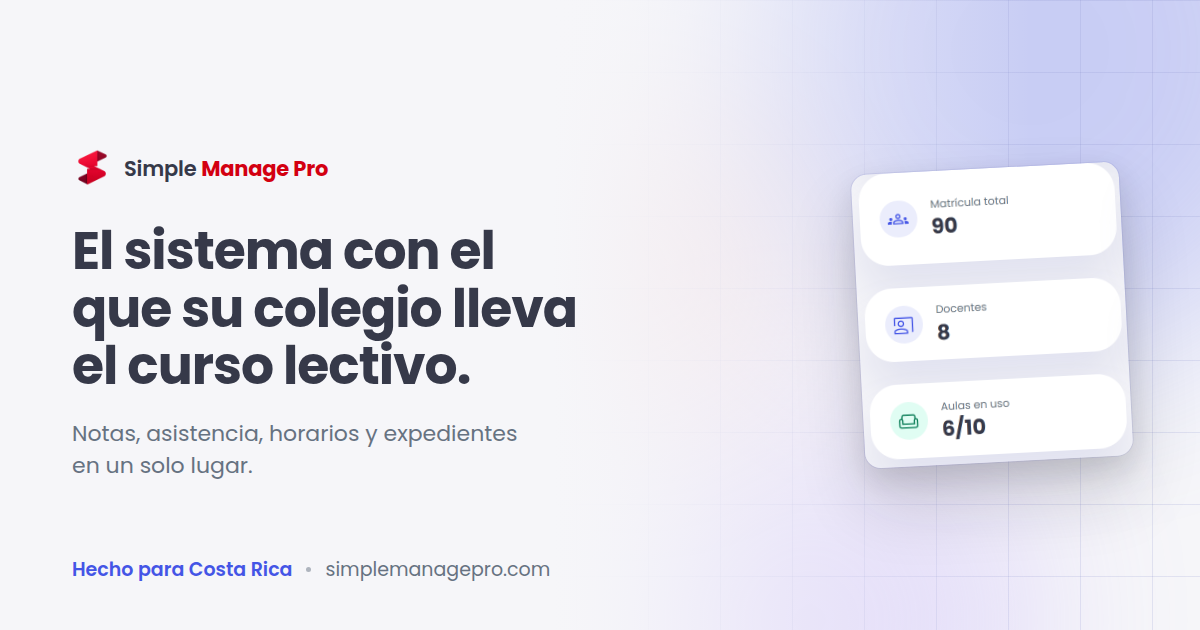
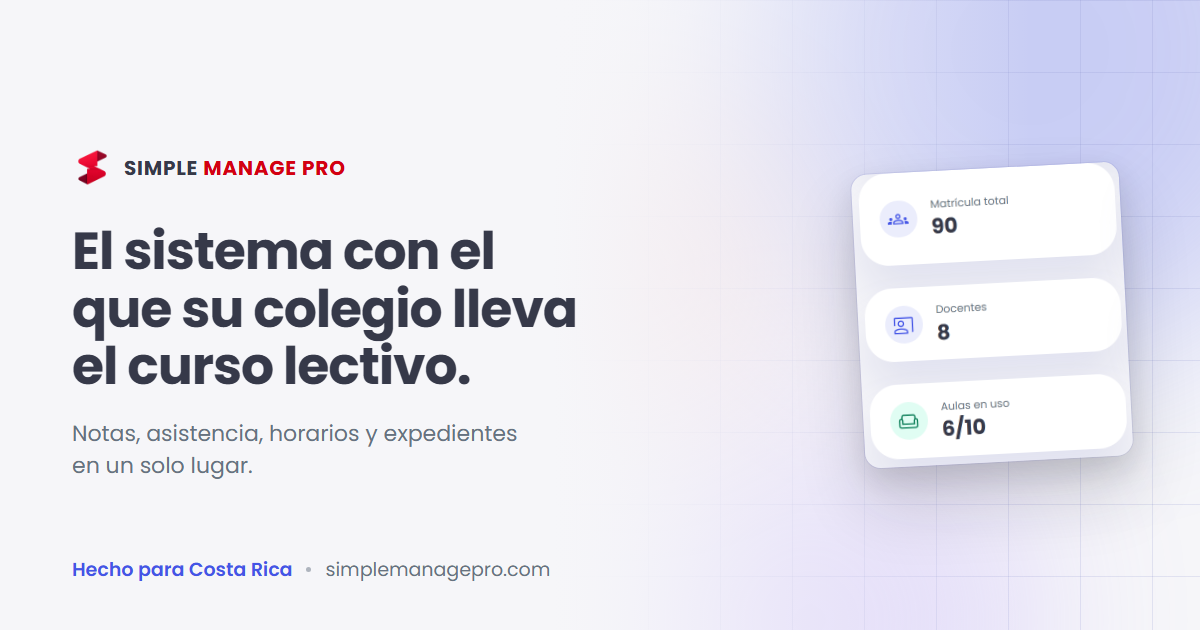
Tighten the SEO surface and record the new structure
Titles were up to 72 characters and two of them led with a label rather than
anything a director would search for. All five now fit inside the ~60 chars a
result renders, brand last, and every description is unique and under 160.

The OG card was still setting the wordmark in title case, which contradicted
both the header and the product's own sidebar. It is the first impression for
the second reader, who gets the WhatsApp forward and never spoke to Gabriel,
so it is the last place that should disagree with itself.

check:nojs is promoted to an npm script. CLAUDE.md has required every page to
render with JavaScript disabled since it was written and there was no way to
prove it; all five routes pass with zero hidden reveals and full navigation.

BRIEF.md §7 carries an amendment rather than a rewrite, so the original
reasoning stays readable next to what replaced it: five routes, the limits
relocated to /piloto as straight answers, the founder to /nosotros, and the
pilot timeline removed because publishing dates commits to a process that will
differ per colegio.

CLAUDE.md records what the next session would otherwise rediscover: that
legibility is a scale problem with a fixed ratio, that the two muted text
tiers now deliberately diverge from the app and why, the em-dash prohibition,
the brand casing rule, and the two verification traps that each cost a session
— the harness writing to a different directory than it was read from, and a
[…]

diff --git a/CLAUDE.md b/CLAUDE.md
@@ -9,20 +9,36 @@ disagree about this repo, this file wins.
 
 ## Project overview
 
-One static Spanish document at `simplemanagepro.com`, built with **Astro 5**.
-No framework, no adapter, no SSR, no routing — the page has none of the things
-that would justify them. Everything dynamic on it (the demo, WhatsApp) lives on
-another origin. Deploys as its own Vercel project.
+Five static Spanish pages at `simplemanagepro.com`, built with **Astro 5**. No
+framework, no adapter, no SSR — everything dynamic (the demo, WhatsApp) lives
+on another origin. Deploys as its own Vercel project.
+
+| Route | Job |
+| --- | --- |
+| `/` | Claim, problem→solution, portal overview, data isolation, pilot teaser |
+| `/portales` | The three consoles in depth, with real screenshots |
+| `/piloto` | The offer, both commitments, pricing stance, straight answers |
+| `/nosotros` | Misión, visión, how the work is done |
+| `/contacto` | WhatsApp and email |
+
+Slugs are Spanish because the site is `lang="es-CR"` and Spanish-only. Adding a
+route means adding it to `src/config.ts` (`NAV`) **and** `scripts/routes.mjs`,
+or the audit and review harnesses silently stop covering it.
 
 | Path | What it is |
 | --- | --- |
-| `BRIEF.md` | **The decision record.** Positioning, audience, offer, page structure (§7), conversion path (§8), build decisions (§9), Costa Rican language notes (§10). Every tension in it was argued through and closed. |
-| `src/pages/index.astro` | The page. All eight sections. |
-| `src/layouts/Layout.astro` | `<head>`, icons, font preloads, skip link. |
-| `src/components/` | `Header.astro` (sticky nav + theme toggle), `ThemedShot.astro` (light/dark screenshot swap). |
-| `src/styles/tokens.css` | Design tokens **inherited from the app**, plus `@font-face` for Poppins. |
-| `src/assets/screenshots/` | Portal captures, light and `-dark`, plus derived crops. |
-| `public/` | Icon set, self-hosted Poppins, `og.png`. |
+| `BRIEF.md` | **The decision record.** Positioning, audience, offer, page structure (§7 + its amendment), conversion path (§8), build decisions (§9), Costa Rican language notes (§10). |
+| `src/config.ts` | URLs, contact details, nav. Anything used by more than one route. |
+| `src/data/site.ts` | Portal content, pilot lists, the `/piloto` answers. |
+| `src/pages/` | One file per route. |
+| `src/layouts/Layout.astro` | `<head>`, per-page OG, head slot for JSON-LD, skip link, `<main>`, reveal script. |
+| `src/components/sections/` | Home-page sections. Shared closer: `CierreCta.astro`. |
+| `src/components/` | `Header.astro` (nav, mobile menu, theme toggle), `Footer.astro`, `ThemedShot.astro`, `HeroShot.astro` (theme **and** viewport swap). |
+| `src/lib/schema.ts` | JSON-LD builders. |
+| `src/styles/tokens.css` | Design tokens inherited from the app, plus `@font-face` for Poppins. |
+| `src/styles/base.css` | Shared layout and component primitives, and the fold system. |
+| `src/assets/screenshots/` | Portal captures, light and `-dark`, `m-` for the 390px pass, plus derived crops. |
+| `public/` | Icon set, self-hosted Poppins, `og.png`, `robots.txt`, manifest. |
 
 ## Commands
 
@@ -32,19 +48,27 @@ npm run check           # astro check — must stay 0 errors / 0 warnings
 npm run build           # production build
 npm run preview         # serve the build on :4321
 
-npm run capture         # re-shoot all 8 portal screenshots from the live demo
+npm run capture         # re-shoot the portal screenshots from the live demo,
+                        # desktop 1440@2x plus a 390@3x pass for hero fragments
 npm run derive          # regenerate cropped screenshots from those captures
 npm run og              # regenerate public/og.png (1200×630)
 
-npm run audit:contrast  # WCAG 1.4.3 audit against the rendered page
-npm run review          # full-page screenshots, desktop+mobile × light+dark
+npm run audit:contrast  # WCAG 1.4.3 audit, every route
+npm run review          # full-page screenshots, every route × desktop/mobile × light/dark
+npm run check:nojs      # every route renders complete with JavaScript disabled
 ```
 
-`audit:contrast` and `review` both need `npm run preview` already running.
-Both accept `CHROMIUM_PATH=` when the environment ships a browser whose build
-number does not match what Playwright would download.
+The last three need `npm run preview` already running, and all accept
+`CHROMIUM_PATH=` when the environment ships a browser whose build number does
+not match what Playwright would download. `audit:contrast` and `review` accept
+`ROUTE=piloto` to narrow to one page while iterating.
 
 **Run `check`, `build`, and `audit:contrast` before considering work done.**
+Add `review` and `check:nojs` for anything visual.
+
+Only one preview server can hold :4321. If a previous one is still running the
+new one silently moves to :4322 and every harness then measures the stale
+build — kill the old process rather than assuming the port.
 
 ## Hard rules
 
@@ -118,8 +142,27 @@ error about the product, not a style choice.
   school instance.
 - **No tech stack, no GitHub link, no Codingraph** on the page.
 - **Do not foreground the founder's student status.** Named founder, yes;
-  biography, no.
-- **`Qué no incluye` stays.** It is a trust device, not filler.
+  biography, no. He is named on `/nosotros` and nowhere else: on the home page
+  the same paragraph read as solo-founder risk to a director who had not yet
+  decided anything.
+- **The limits stay, as `Respuestas directas` on `/piloto`.** All three facts
+  are intact and none is softened — no encargado portal, no colegio using it
+  yet, expedientes hosted abroad. What changed is the framing and the location.
+  A list of deficits headed *"para que no lo descubra en la primera reunión"*
+  announces bad news before the reader has asked; the same content as the
+  director's own questions, answered straight, reads as candor. Do not quietly
+  drop it: BRIEF §7 keeps it as a trust device and it is still one.
+- **Never use an em dash (—) in copy.** It is the most recognizable marker of
+  AI-written text and this page cannot afford to read as generated. Commas,
+  colons and full stops do the same work. The same goes for the wider register:
+  no *optimizar*, *robusto*, *integral*, *sin fisuras*, no "en el mundo actual",
+  no empty intensifiers. Em dashes in **code comments** are fine — the rule is
+  about what a visitor reads.
+- **The brand is `SIMPLE MANAGE PRO` as a logotype, `Simple Manage Pro` in
+  prose.** Caps in the header, footer and OG card, matching the app's own
+  sidebar, which is visible inside the screenshots this page displays. Title
+  case in body copy, `<title>` and OG tags, matching the app's own metadata.
+  Caps need positive tracking; lowercase does not.
 
 ## Design conventions
 
@@ -133,15 +176,30 @@ error about the product, not a style choice.
   Non-negotiable, and `npm run audit:contrast` is how you prove it rather than
   assuming.
 
-  Two tokens have **zero headroom** and will fail under any decorative tint:
-  `--color-dark-variant` (4.54:1) and `--color-info-dark` (4.50:1). If you put
-  a gradient, glow, or large soft shadow anywhere near text set in them, it
-  will fail. Hold the decoration off the text rather than dimming it until it
-  passes — at any opacity where the effect is still worth having, those tiers
-  are already under the line.
+  The two muted text tiers **diverge from the app on purpose**, and this is the
+  one token divergence the page takes. The app's `#667281` / `#627388` clear
+  4.5:1 by 0.09 and 0.07, which is enough for a console because a console is
+  flat everywhere. A marketing page is not: the hero's own wash tints the
+  background to `#f4f4f7` and drops both under the line. That is why the
+  previous pass had a gradient in exactly one place and flat bands everywhere
+  else.
+
+  They are now `--color-dark-variant: #515c6b` (6.34:1) and
+  `--color-info-dark: #4e5c70` (6.35:1), so about 1.5 points are available for
+  tint, glow and gradient behind body copy. Dark mode needed only info-dark
+  raised (`#8f9eb1`, 6.38:1). **Spend that headroom, do not bank it — but run
+  `audit:contrast` after every change to a decorative layer.**
 
   Fills are separate from text colours: `--color-primary` carries white at
   only 3.48:1, so filled buttons use `--color-primary-fill` (4.53:1).
+- **The fold is the page's signature.** The brand mark is a crimson ribbon
+  folded back on itself with the darker crimson on the underside; the hero is
+  that shape at page scale, and `.fold-band` in `base.css` carries the same
+  upward-to-the-right edge down alternating sections so the page reads as one
+  folded sheet. It is all `clip-path` and gradients — no image, nothing that
+  costs a slow Android anything to paint. Both layers sit behind the content in
+  the band's own stacking context: **nothing decorative is ever painted over
+  type.**
 - **Motion is CSS, and cheap.** No WebGL, no GIF backgrounds. The primary
   channel is a WhatsApp forward opening on mobile data. Everything must
   collapse under `prefers-reduced-motion`, and the page must render complete
@@ -154,21 +212,43 @@ error about the product, not a style choice.
 ## Screenshots
 
 Captures come from the **live demo**, not fixtures, because the page invites
-the director to click through to that exact demo. Two known blemishes cannot
-currently be fixed by recapturing:
+the director to click through to that exact demo.
+
+**Legibility is a scale problem, not a resolution one.** The captures are a
+1440 CSS-px console; a full frame in the 1180px wrap is drawn at 0.41x, which
+puts a 14px table row at 5.9px. No bigger source file and no `srcset` changes
+that. The hero therefore uses **crops sized so displayed width is half the
+source width**, i.e. 1:1 with the app's own CSS pixels — that ratio is the
+whole trick, and `make-derived.mjs` prints it for every crop it writes. A phone
+cannot use the desktop crops either, so `npm run capture` also shoots at
+390@3x (`m-` prefix) and `HeroShot.astro` switches on viewport as well as theme.
+
+Two known blemishes cannot be fixed from this repo:
 
 - The admin overview reads **"Bienvenido, Demo Account"** — the auth user's
   display name, which lives in `auth.users` and is out of bounds without an
   explicit ask.
-- **"Asistencia de hoy: Sin datos"** appears whenever the capture runs on a
-  weekend. A weekday run fills it.
+- **"Asistencia de hoy: Sin datos".** Previously recorded as a weekend
+  artifact; that is wrong, a Monday capture shows it too. The demo's fixtures
+  carry no attendance for the current date, so it will show on any day. Fixing
+  it means seeding the demo, not re-running the capture.
 
 `npm run derive` crops around both. BRIEF §9 sanctions cropping per section, so
 cropping is the intended treatment rather than a workaround.
 
 ## Verification
 
-Visual work is not done until it has been looked at. Drive Playwright against
-`npm run preview` and read the resulting PNGs — set `img.loading='eager'` and
-scroll gently before capturing, or below-the-fold sections come out blank.
-`npm run review` does this for desktop and mobile in both themes.
+Visual work is not done until it has been looked at. `npm run review` drives
+Playwright against `npm run preview` for every route, desktop and mobile, both
+themes — then **read the PNGs**.
+
+Two traps that have already cost a session each:
+
+- **Check the output path.** The harness writes to `os.tmpdir()`. It used to
+  default to a literal `/tmp/review`, which Node on Windows resolves against
+  the current drive as `C:\tmp\review` while the launching shell translates the
+  same string to the real temp directory. The captures went one place and were
+  read from another, so a change looked like it had done nothing.
+- **Check which server you measured.** If a preview is already on :4321 the new
+  one moves to :4322 without failing, and every harness then measures the old
+  build.

diff --git a/BRIEF.md b/BRIEF.md
@@ -166,6 +166,42 @@ asked, not foregrounded).
 
 ## 7. Page structure
 
+> **Amendment, August 2026 — one page became five.** Agreed with Gabriel before
+> the work started; recorded here rather than by rewriting the section, so the
+> original reasoning stays readable.
+>
+> The eight sections below are still the argument and still run in this order.
+> What changed is that they no longer all live on one document:
+>
+> | Route | Carries |
+> | --- | --- |
+> | `/` | 1, 2, a condensed 3, 4, a teaser of 6 |
+> | `/portales` | 3, in full |
+> | `/piloto` | 6, plus 5 relocated |
+> | `/nosotros` | 7, rewritten — plus misión and visión, which this brief does not cover |
+> | `/contacto` | 8 |
+>
+> Four changes of substance:
+>
+> - **Section 5 moved to `/piloto` and is now `Respuestas directas`.** All three
+>   facts are intact and none is softened. The framing changed: a list of
+>   deficits headed *"para que no lo descubra en la primera reunión"* announces
+>   bad news before the reader has asked for it, and it was doing that on the
+>   first-impression surface. As the director's own three questions, answered
+>   straight, it still buys the trust §7 says it buys.
+> - **Section 7 moved to `/nosotros`.** On the home page, "no hay un centro de
+>   soporte: le contesta él" read as solo-founder risk to a director who had not
+>   yet decided anything. The founder is still named, and the scarcity argument
+>   it used to carry now sits in the pilot's own framing.
+> - **The pilot timeline is gone.** Publishing dates for *la conversación*,
+>   *arranque* and *revisión* commits to a process that will differ per colegio,
+>   and the same dates are already in the prose without the commitment.
+> - **Section 8 became a page, headed `¿Su colegio podría ser uno de los tres?`**
+>   *Hablemos* was accurate and did no work.
+>
+> §8's rule that the demo is persistent rather than a section is unchanged, and
+> the demo CTA is now in the header on every route.
+
 One page. Order follows the director's skepticism.
 
 1. **What this is, for whom** — one breath, with the demo immediately available
